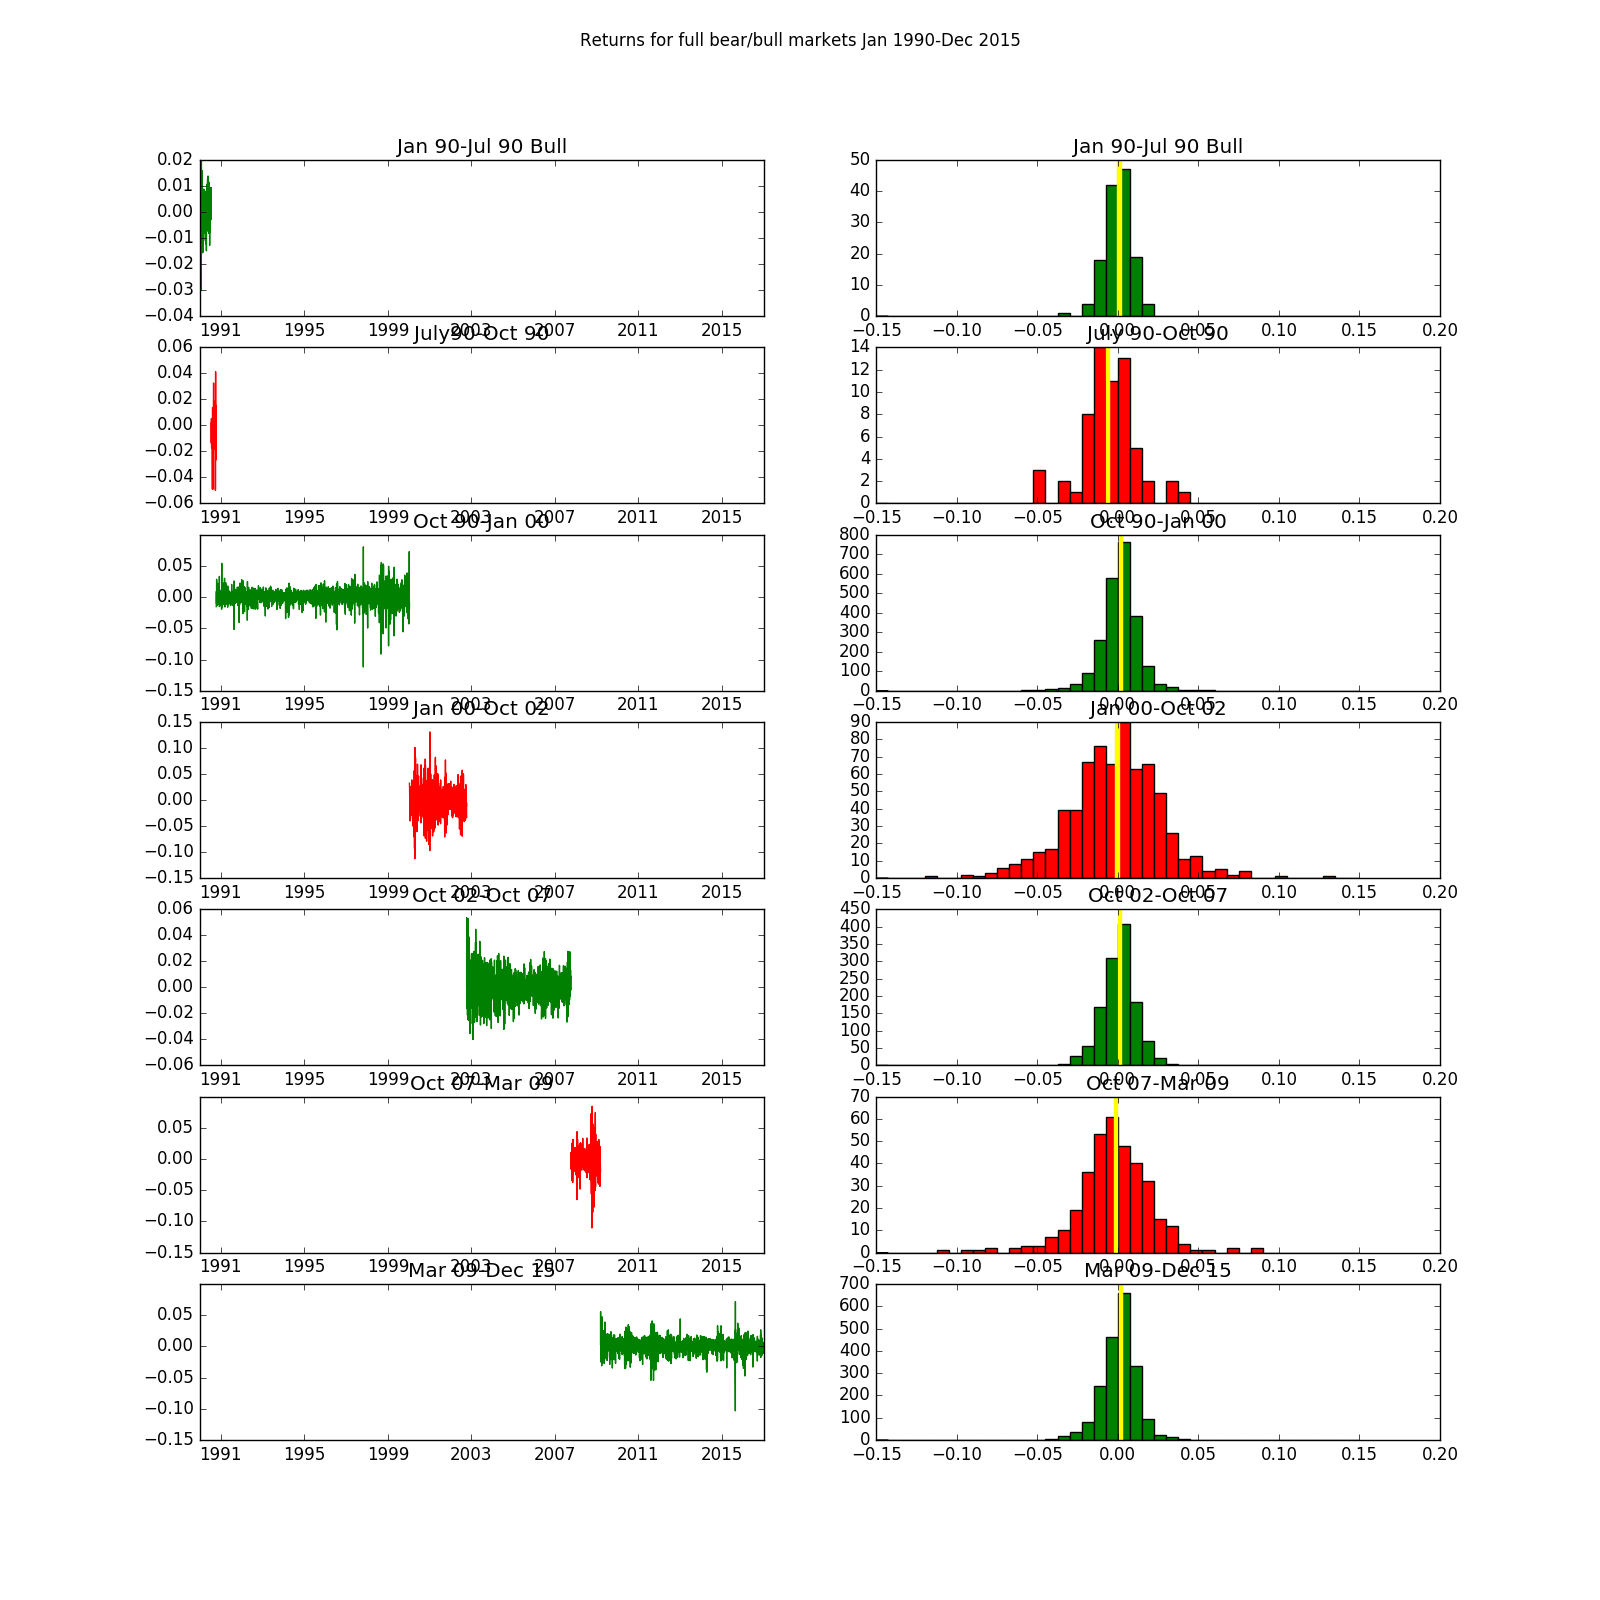
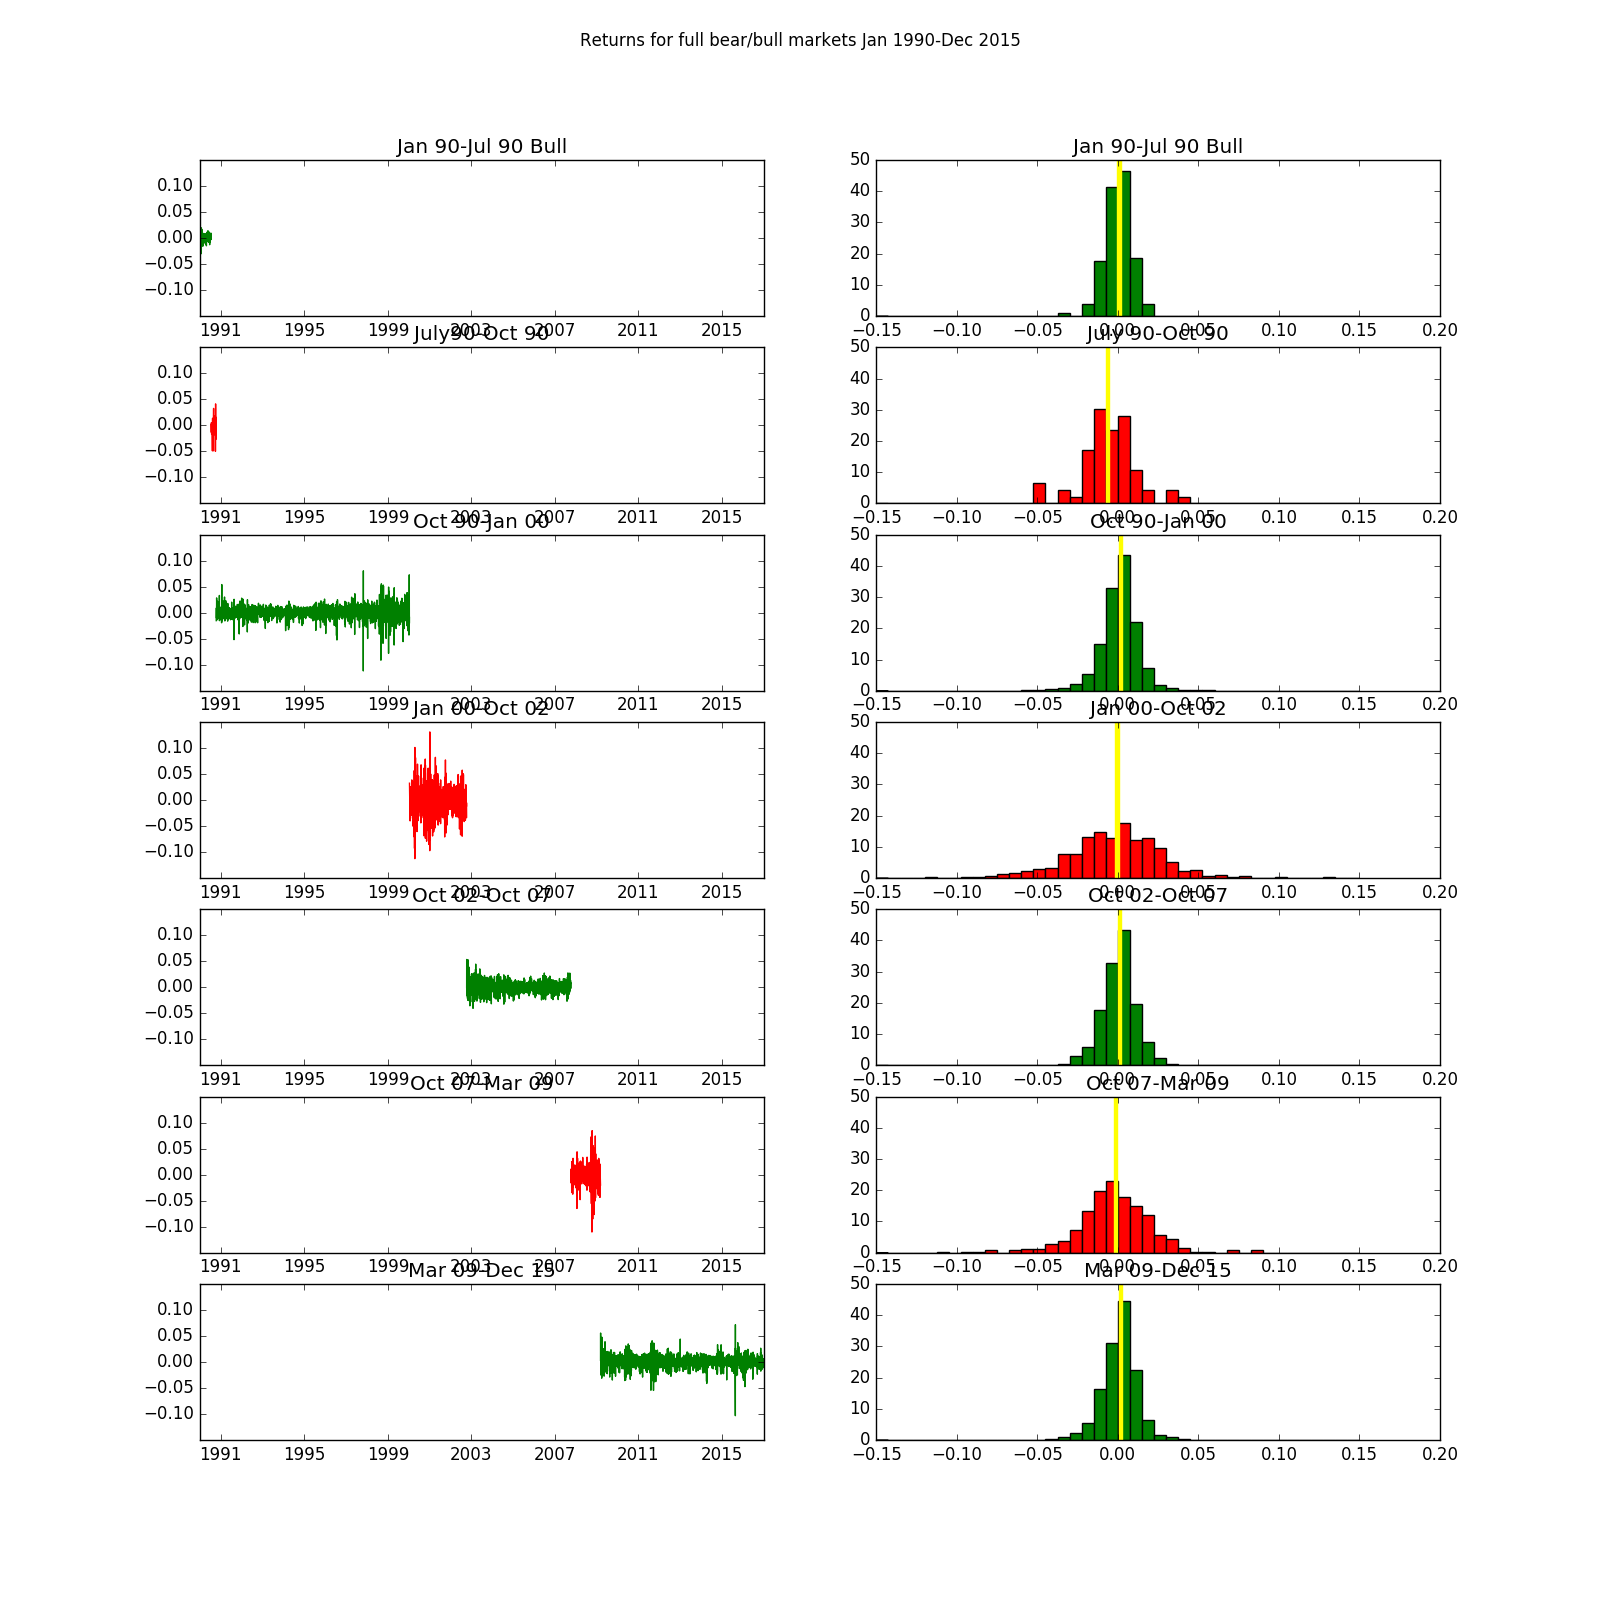
scale y axis, differences between bull/bear much clearer in plots now

diff --git a/PlotBullBearMarkets.py b/PlotBullBearMarkets.py
@@ -104,12 +104,14 @@ plt.suptitle("Returns for full bear/bull markets Jan 1990-Dec 2015")
 plt.subplot(7,2,1)
 plt.title("Jan 90-Jul 90 Bull")
 plt.plot(bull1['returns'], color='green')
+plt.ylim(-0.15, .15)
 plt.xlim(pd.to_datetime('01-01-1990'), pd.to_datetime('12-31-2016'))
 
 
 plt.subplot(7,2,2)
 plt.title("Jan 90-Jul 90 Bull")
-plt.hist(bull1['returns'], range=[-0.15, 0.15], bins=n_bins, color='green')
+plt.hist(bull1['returns'], range=[-0.15, 0.15], bins=n_bins, color='green', normed=True)
+plt.ylim(0, 50)
 median_return = bull1['returns'].median()
 l = plt.axvspan(median_return-0.001, median_return+0.001, color='yellow')
 
@@ -117,11 +119,13 @@ l = plt.axvspan(median_return-0.001, median_return+0.001, color='yellow')
 plt.subplot(7,2,3)
 plt.title("July90-Oct 90")
 plt.plot(bear1['returns'], color='red')
+plt.ylim(-0.15, .15)
 plt.xlim(pd.to_datetime('01-01-1990'), pd.to_datetime('12-31-2016'))
 
 plt.subplot(7,2,4)
 plt.title("July 90-Oct 90")
-plt.hist(bear1['returns'], range=[-0.15, 0.15], bins=n_bins, color='red')
+plt.hist(bear1['returns'], range=[-0.15, 0.15], bins=n_bins, color='red', normed=True)
+plt.ylim(0, 50)
 median_return = bear1['returns'].median()
 l = plt.axvspan(median_return-0.001, median_return+0.001, color='yellow')
 
@@ -129,11 +133,13 @@ l = plt.axvspan(median_return-0.001, median_return+0.001, color='yellow')
 plt.subplot(7,2,5)
 plt.title("Oct 90-Jan 00")
 plt.plot(bull2['returns'], color='green')
+plt.ylim(-0.15, .15)
 plt.xlim(pd.to_datetime('01-01-1990'), pd.to_datetime('12-31-2016'))
 
 plt.subplot(7,2,6)
 plt.title("Oct 90-Jan 00")
-plt.hist(bull2['returns'], range=[-0.15, 0.15], bins=n_bins, color='green')
+plt.hist(bull2['returns'], range=[-0.15, 0.15], bins=n_bins, color='green', normed=True)
+plt.ylim(0, 50)
 median_return = bull2['returns'].median()
 l = plt.axvspan(median_return-0.001, median_return+0.001, color='yellow')
 
@@ -141,11 +147,13 @@ l = plt.axvspan(median_return-0.001, median_return+0.001, color='yellow')
 plt.subplot(7,2,7)
 plt.title("Jan 00-Oct 02")
 plt.plot(bear2['returns'], color='red')
+plt.ylim(-0.15, .15)
 plt.xlim(pd.to_datetime('01-01-1990'), pd.to_datetime('12-31-2016'))
 
 plt.subplot(7,2,8)
 plt.title("Jan 00-Oct 02")
-plt.hist(bear2['returns'], range=[-0.15, 0.15], bins=n_bins, color='red')
+plt.hist(bear2['returns'], range=[-0.15, 0.15], bins=n_bins, color='red', normed=True)
+plt.ylim(0, 50)
 median_return = bear2['returns'].median()
 l = plt.axvspan(median_return-0.001, median_return+0.001, color='yellow')
 
@@ -153,12 +161,14 @@ l = plt.axvspan(median_return-0.001, median_return+0.001, color='yellow')
 plt.subplot(7,2,9)
 plt.title("Oct 02-Oct 07")
 plt.plot(bull3['returns'], color='green')
+plt.ylim(-0.15, .15)
 plt.xlim(pd.to_datetime('01-01-1990'), pd.to_datetime('12-31-2016'))
 
 
 plt.subplot(7,2,10)
 plt.title("Oct 02-Oct 07")
-plt.hist(bull3['returns'], range=[-0.15, 0.15], bins=n_bins, color='green')
+plt.hist(bull3['returns'], range=[-0.15, 0.15], bins=n_bins, color='green', normed=True)
+plt.ylim(0, 50)
 median_return = bull3['returns'].median()
 l = plt.axvspan(median_return-0.001, median_return+0.001, color='yellow')
 
@@ -166,12 +176,14 @@ l = plt.axvspan(median_return-0.001, median_return+0.001, color='yellow')
 plt.subplot(7,2,11)
 plt.title("Oct 07-Mar 09")
 plt.plot(bear3['returns'], color='red')
+plt.ylim(-0.15, .15)
 plt.xlim(pd.to_datetime('01-01-1990'), pd.to_datetime('12-31-2016'))
 
 
 plt.subplot(7,2,12)
 plt.title("Oct 07-Mar 09")
-plt.hist(bear3['returns'], range=[-0.15, 0.15], bins=n_bins, color='red')
+plt.hist(bear3['returns'], range=[-0.15, 0.15], bins=n_bins, color='red', normed=True)
+plt.ylim(0, 50)
 median_return = bear3['returns'].median()
 l = plt.axvspan(median_return-0.001, median_return+0.001, color='yellow')
 
@@ -179,12 +191,14 @@ l = plt.axvspan(median_return-0.001, median_return+0.001, color='yellow')
 plt.subplot(7,2,13)
 plt.title("Mar 09-Dec 15")
 plt.plot(bull4['returns'], color='green')
+plt.ylim(-0.15, .15)
 plt.xlim(pd.to_datetime('01-01-1990'), pd.to_datetime('12-31-2016'))
 
 
 plt.subplot(7,2,14)
 plt.title("Mar 09-Dec 15")
-plt.hist(bull4['returns'], range=[-0.15, 0.15], bins=n_bins, color='green')
+plt.hist(bull4['returns'], range=[-0.15, 0.15], bins=n_bins, color='green', normed=True)
+plt.ylim(0, 50)
 median_return = bull4['returns'].median()
 l = plt.axvspan(median_return-0.001, median_return+0.001, color='yellow')
 
